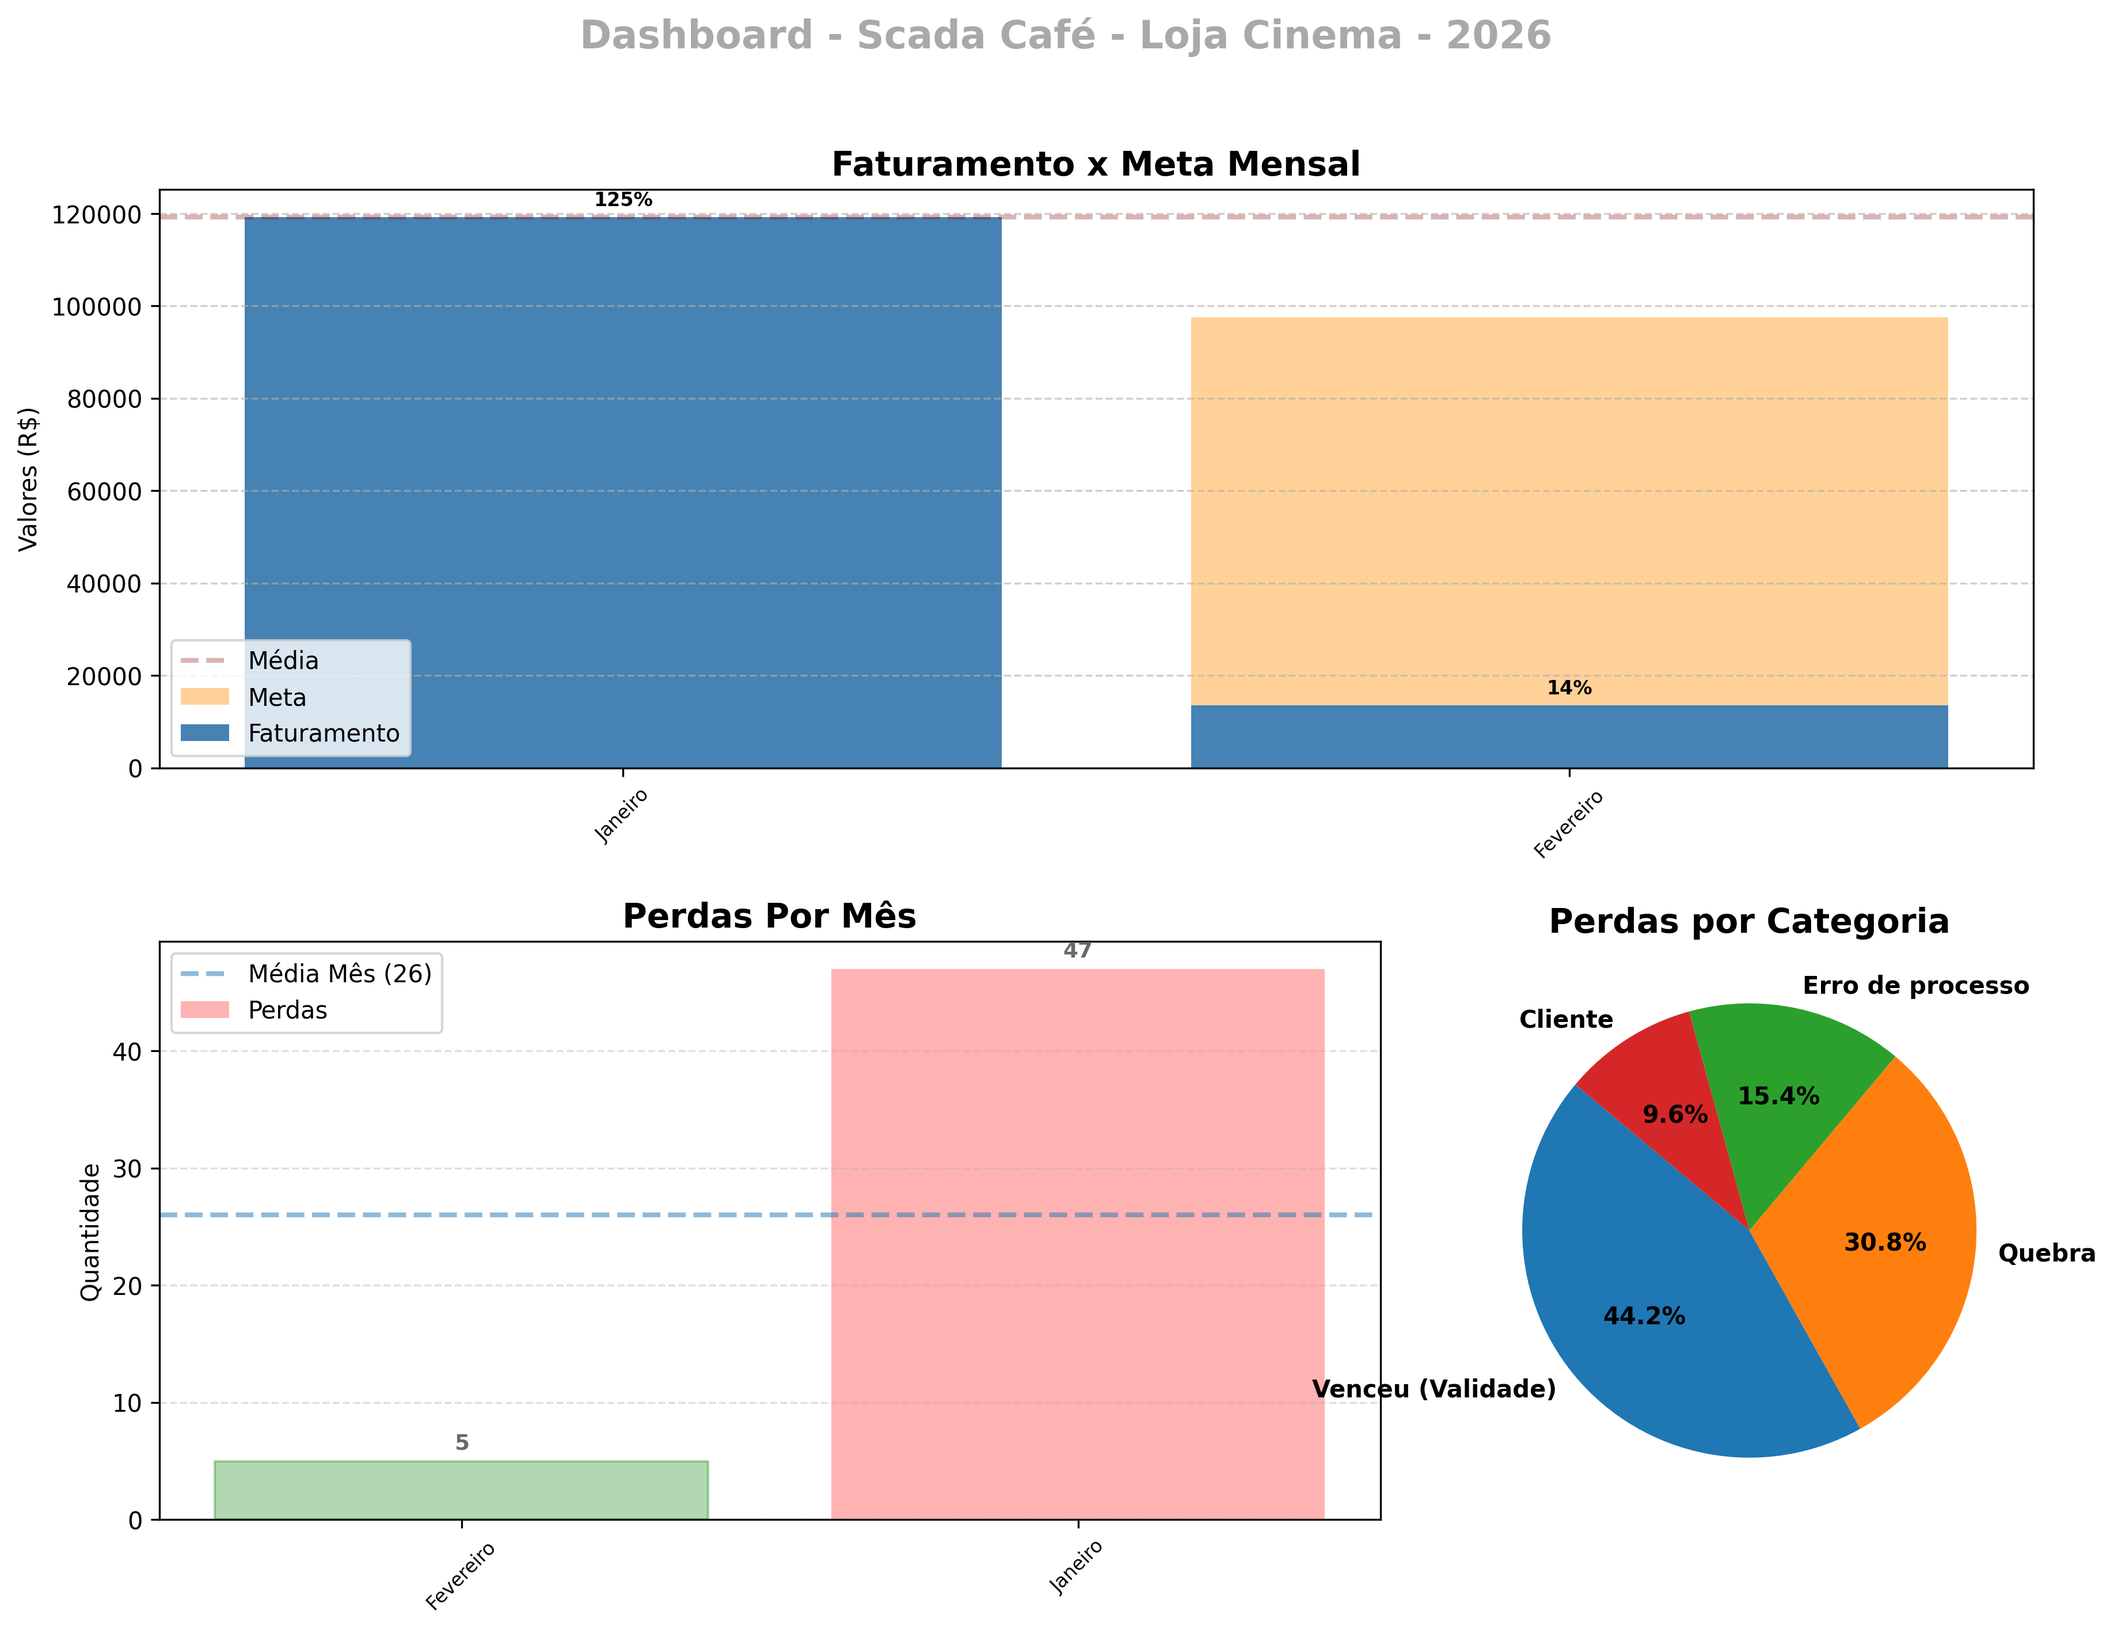
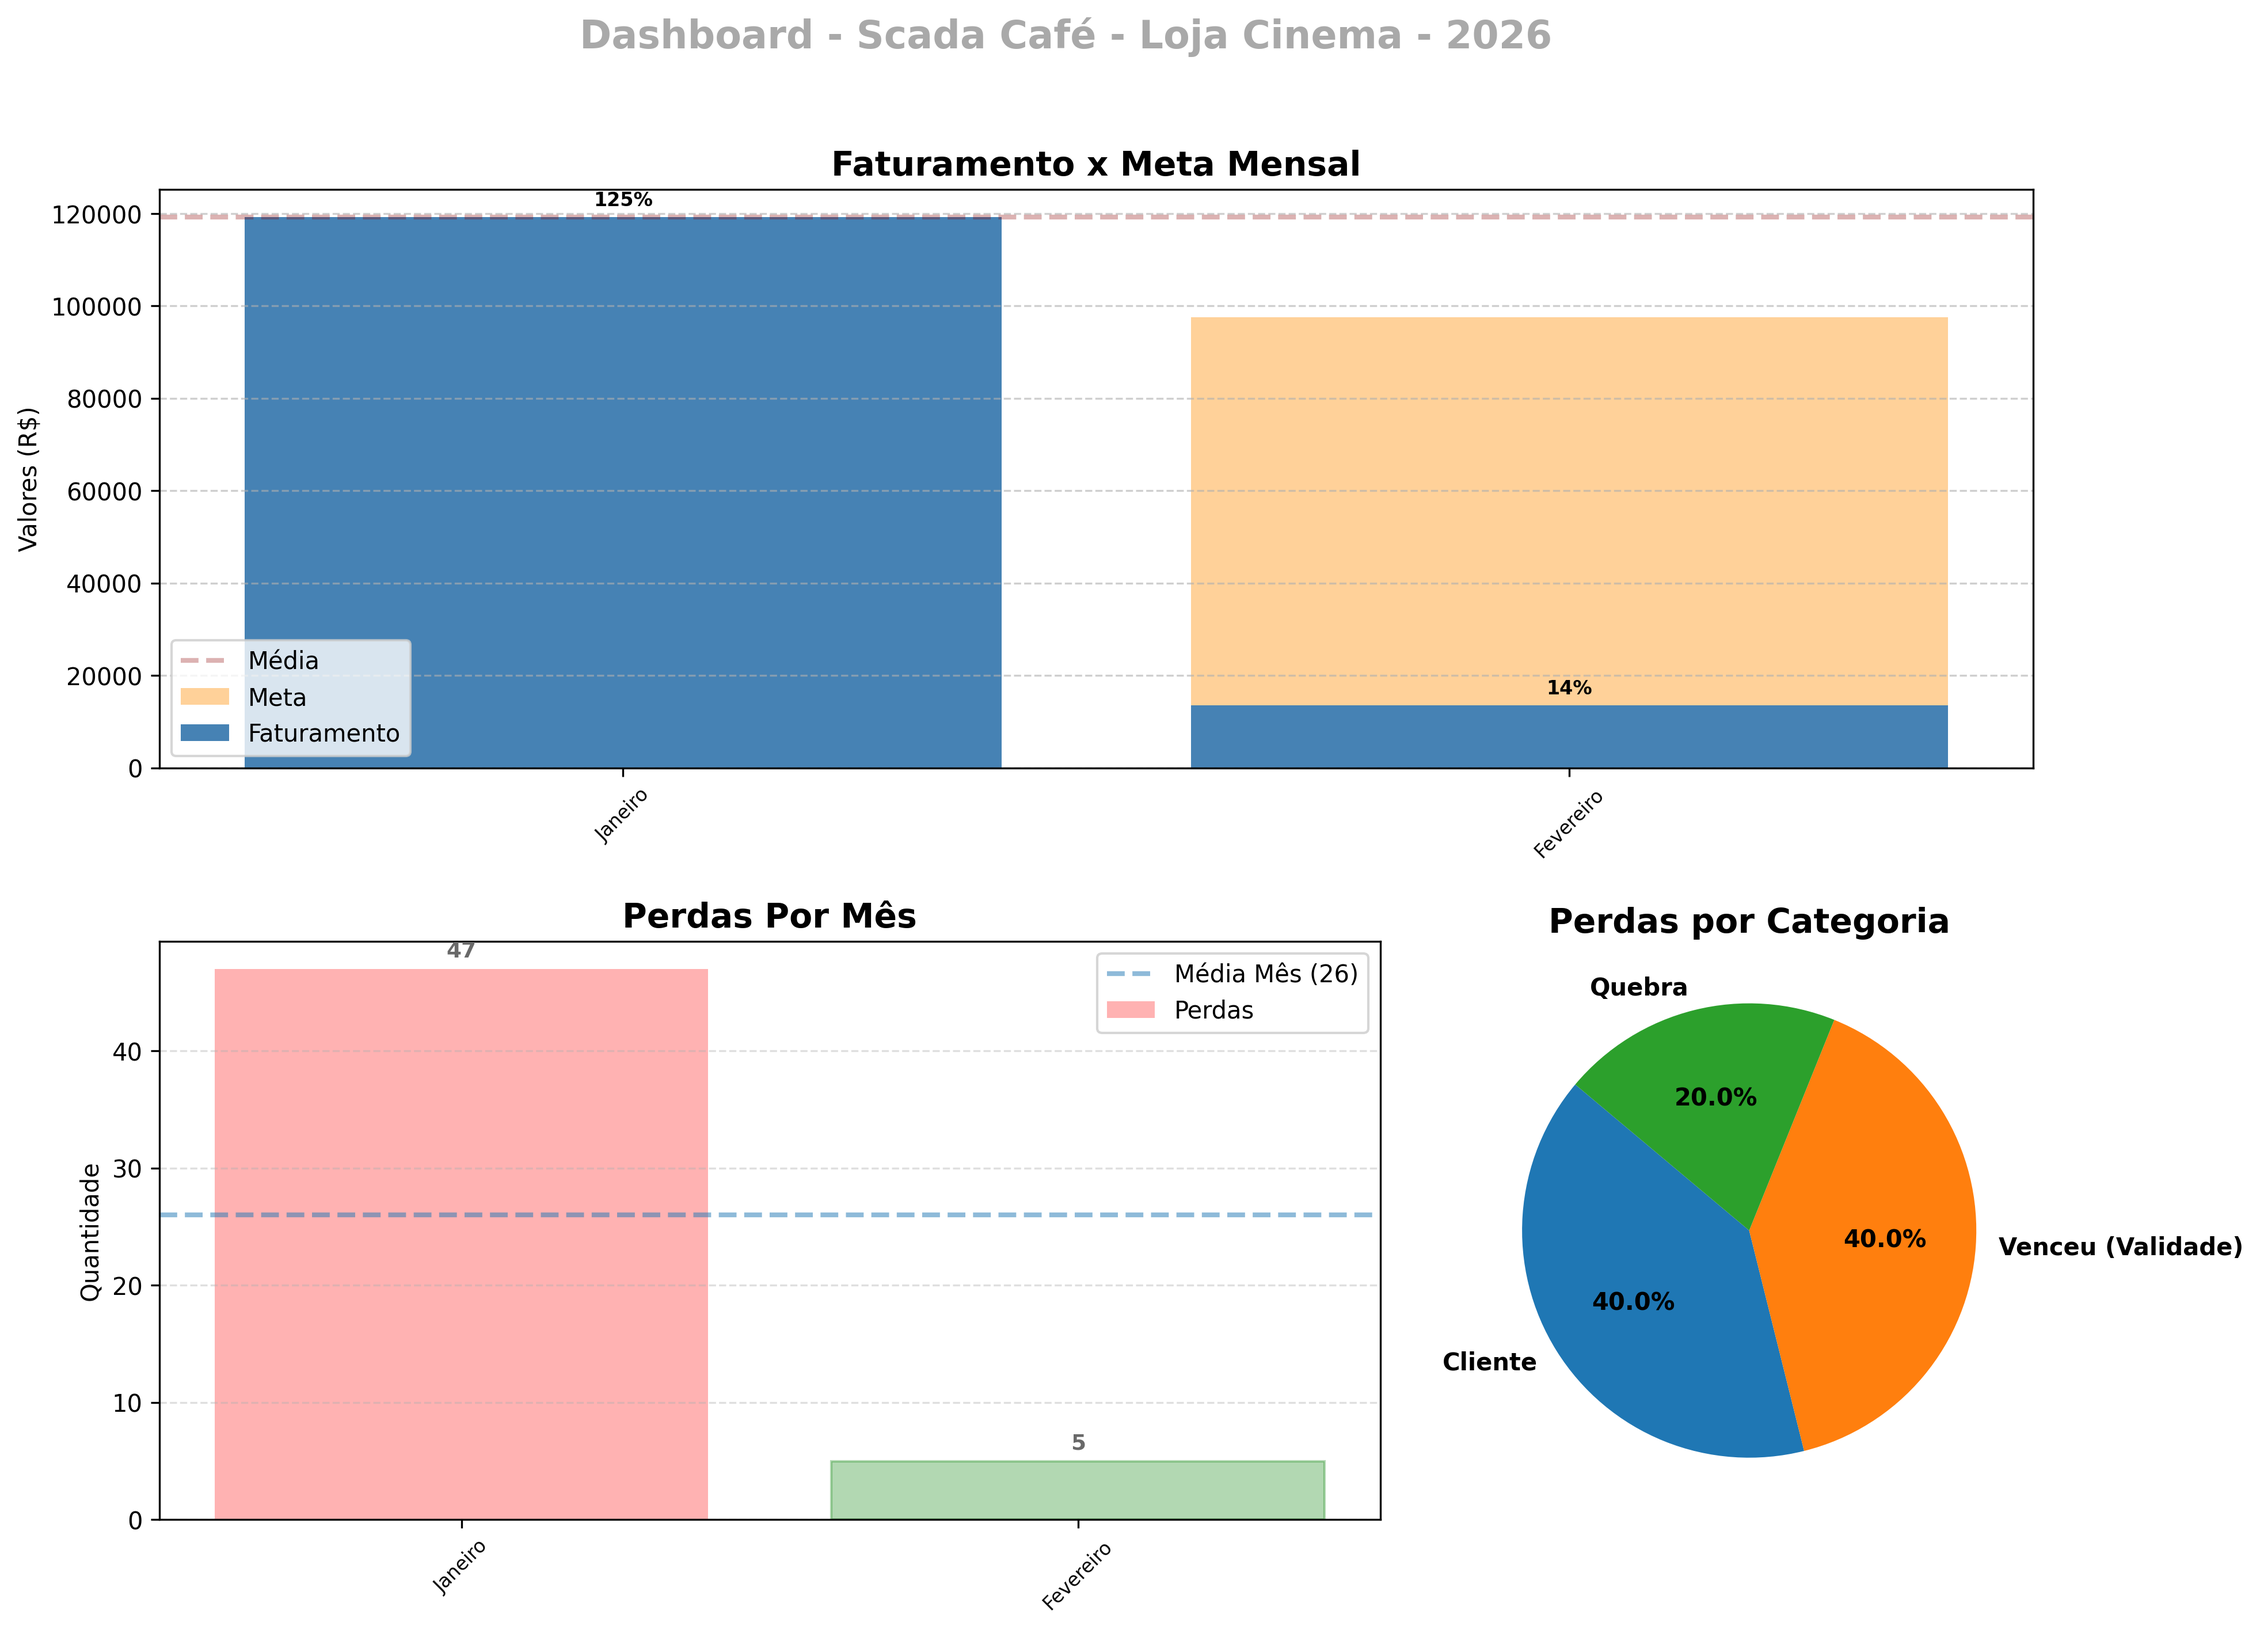
feature
Correção de ordenação de exibição de perdas por mês

diff --git a/scada_cafe_cinema.py b/scada_cafe_cinema.py
@@ -568,6 +568,11 @@ while True:
         perdas_mes = axs["D"].bar(perdas_por_mes['Mês'], perdas_por_mes['Quantidade'], color='red', alpha=0.3, label='Perdas')
         media_perdas_mes = perdas_por_mes['Quantidade'].mean()
 
+        perdas_por_mes["Mês"] = pd.Categorical(perdas_por_mes["Mês"],
+                                            categories=ordem_meses,
+                                            ordered=True)
+        perdas_por_mes = perdas_por_mes.sort_values("Mês")
+
         # --- NOVIDADE: Linha de Média ---
         axs["D"].axhline(
             y=media_perdas_mes,
